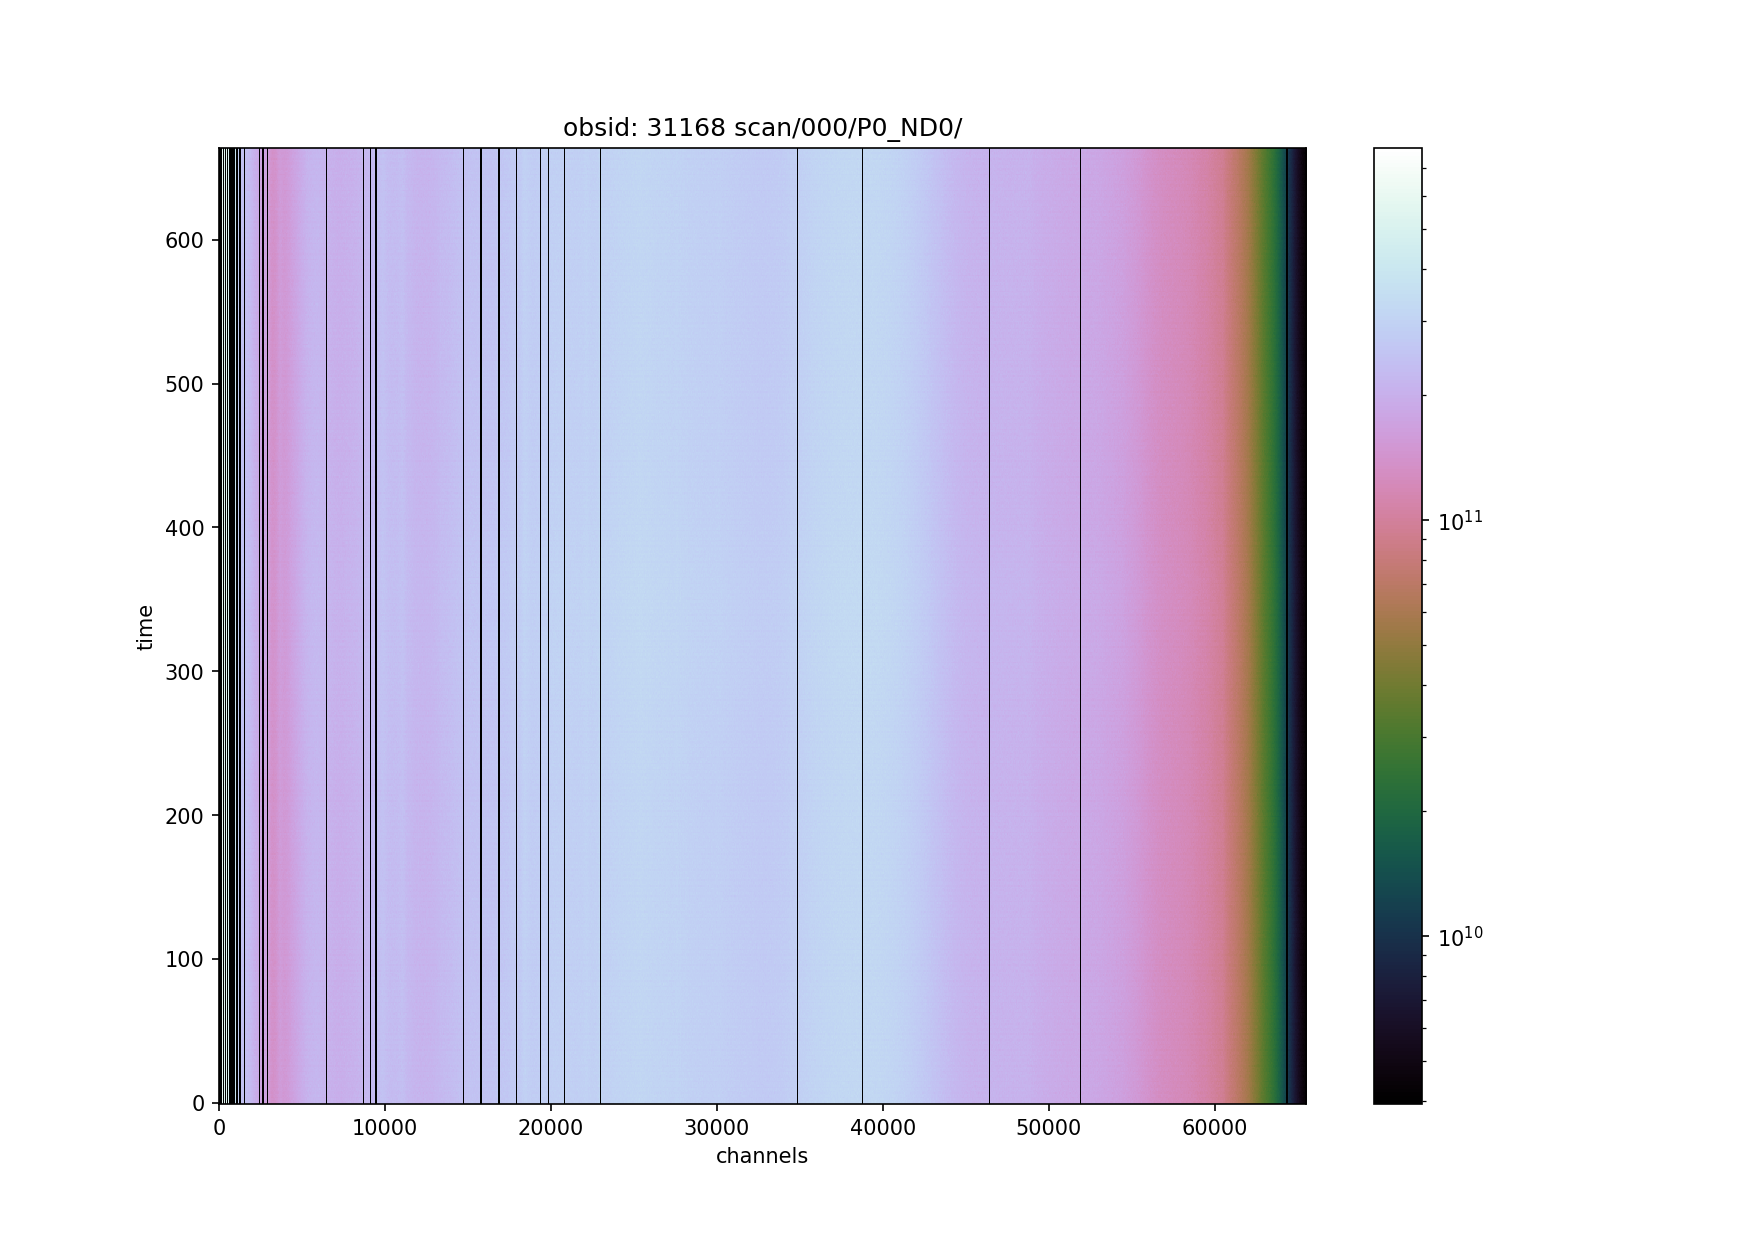
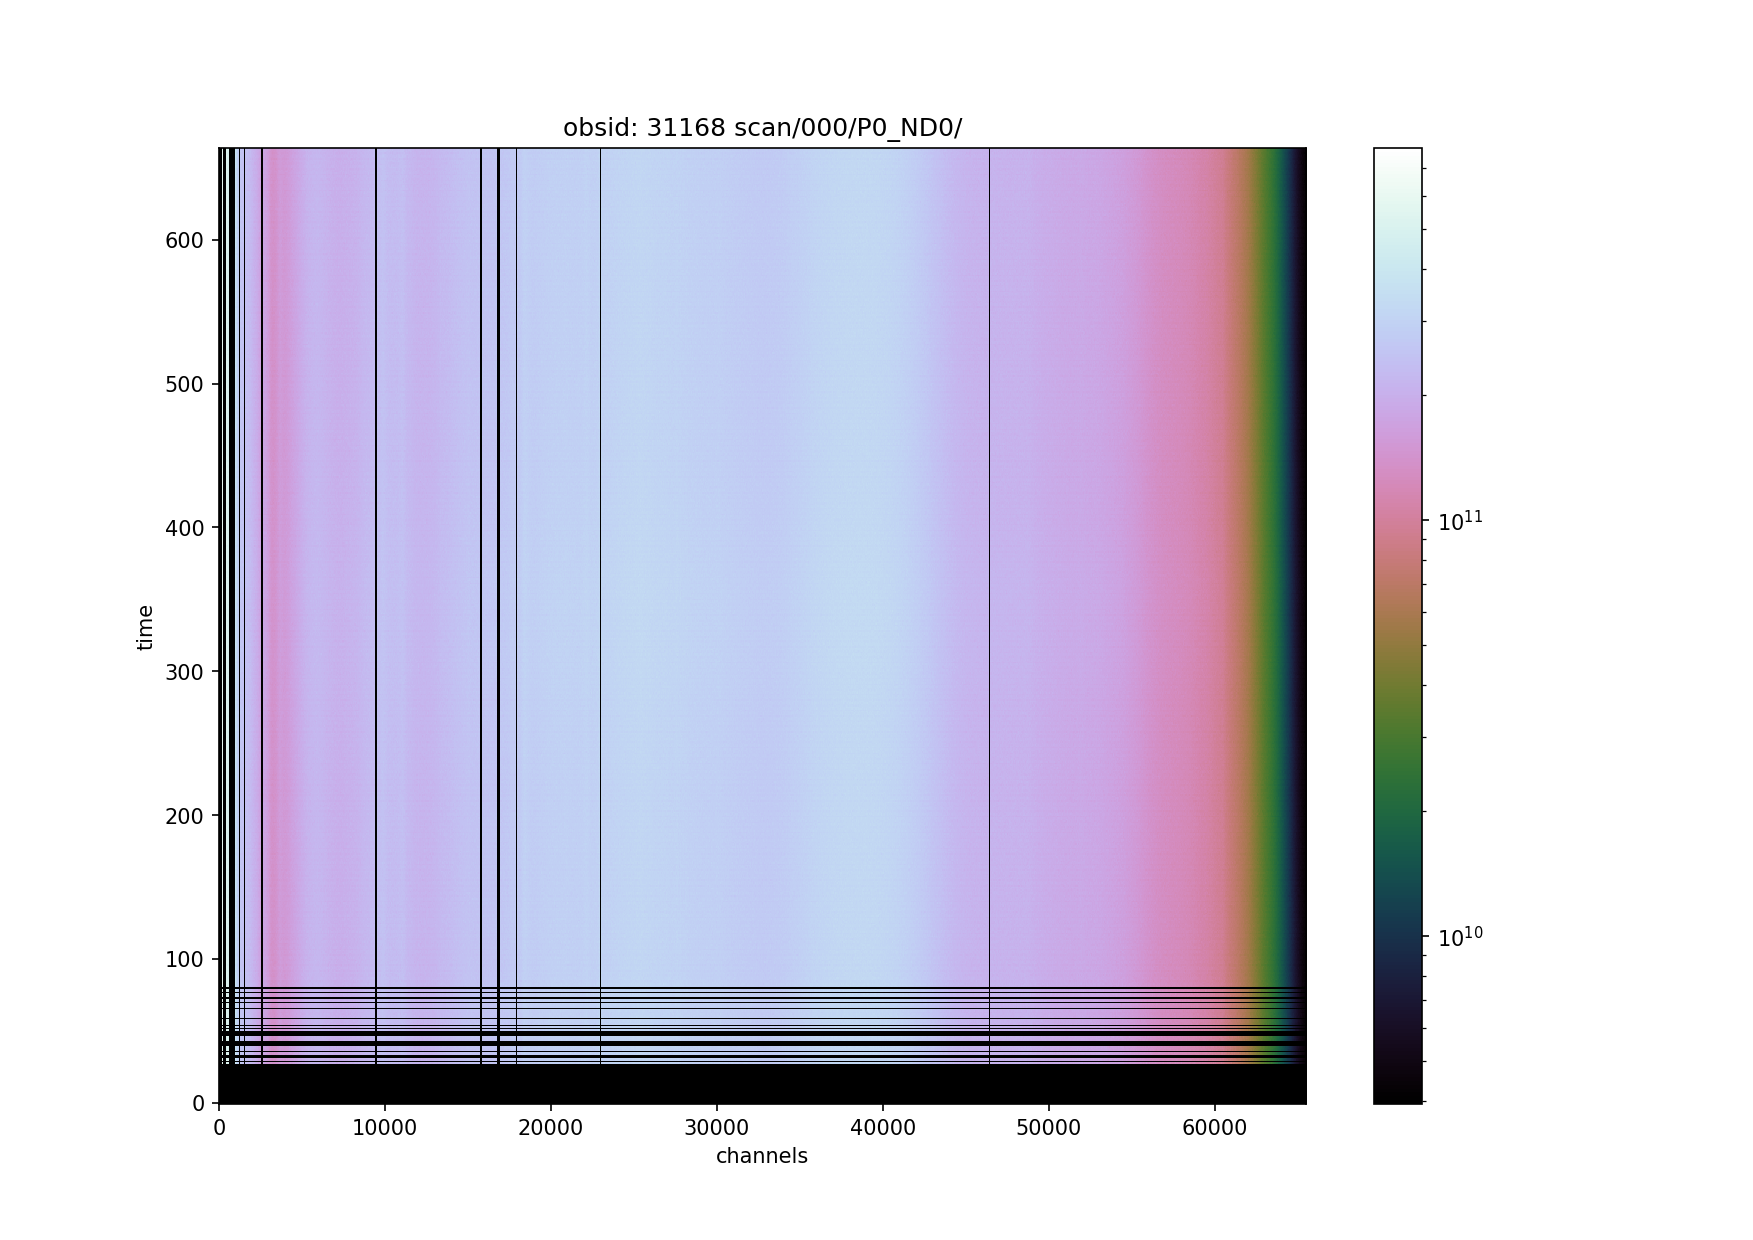
Update README

Changed region(s): [[0.1232, 0.1226, 0.7393, 0.8887]]

diff --git a/README.md b/README.md
@@ -416,36 +416,40 @@ that will be used in the nest step.
 
 
 ```
-python SKAMPI_RFI_WIPER.py
---DATA_FILE=../../../OBSERVATION_EXAMPLES/EDD_2023-08-07T15_07_54.890197UTC_tnEks.hdf5
---USE_SCAN="['000','001']" --USE_DATA="['P0']" --FG_GROWTHRATE_SIGMA=3
---FG_SMOOTH_SIGMA=3 --PROCESSING_TYPE=INPUT --PLOT_SPEC --PLOT_WATERFALL
+python SKAMPI_RFI_WIPER.py --DATA_FILE=../../../OBSERVATION_EXAMPLES/EDD_2023-08-07T15_07_54.890197UTC_tnEks.hdf5 --USE_SCAN="['000']" --USE_DATA="['P0']" --FG_VELO_SIGMA=6 --FG_NOISE_SIGMA=3 --FG_GROWTHRATE_SIGMA=3 --FG_SMOOTH_SIGMA=4 --PROCESSING_TYPE=INPUT --PLOT_SPEC --PLOT_WATERFALL --SAVE_PLOT
 ```
 
 look at the output 
 
+
+	
 	generate mask for :  scan/000/P0_ND0/
 
+	- Scanning velocity FG in time
+		 flagged:  48 time steps
+	- Noise-std-stats FG in channels
+		 flagged:  295 channels
 	- FG channels on growth rate spectrum
-		 flagged:  595 channels
+		 flagged:  891 channels
 	- FG channels on smooth spectrum
 		 kernel:  mean , size  [83, 43, 11, 7, 5, 3]  Type  INPUT
 			 SWPD  :  1024
 			 boundary smoothing kernel:  hamming , size  31
-		 flagged:  2591 channels
+		 flagged:  2672 channels
 
-	Full masking needed  0.3544179999999999  [s]
+	Full masking needed  4.025533000000001  [s]
+	
+	 === Generate 1d Spectrum plot ===
 
-   === Generate 1d Spectrum plot ===
-
-	mask:                scan/000/P0_ND0/   3  %
-	generate plot for :  scan/000/P0_ND0/
-
-   === Generate waterfall plot ===
-
-	mask:                scan/000/P0_ND0/   3  %
+	mask:                scan/000/P0_ND0/   11  %
 	generate plot for :  scan/000/P0_ND0/
 	
+     === Generate waterfall plot ===
+
+	mask:                scan/000/P0_ND0/   11  %
+	generate plot for :  scan/000/P0_ND0/
+
+
 Note to make the flagging applied to the dataset you need to set --EDIT_MASK
 
 This seems to generate a reasonable clean spectrum.
